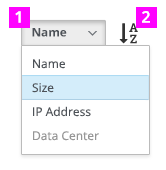
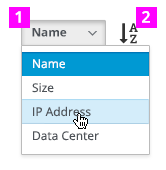
Updates for Sort
- Change all “Simple Sort” to just “Sort”.
- Modified the image of expanded sort to show a selected state, too.
- Made some minor updates to the way of expression.

diff --git a/pattern-library/forms-and-controls/sort/design/design.md b/pattern-library/forms-and-controls/sort/design/design.md
@@ -2,6 +2,6 @@
 
 ![Image highlighting attribute selector](img/sort_expand.png)
 
-  1. **Sort Selector:** Contains a list of the possible attributes by which to sort. Objects can be sorted by any attribute that they possess, not just those that are delayed on the page. (e.g. attributes in hidden columns, or those that are not displayed in a tile)
+  1. **Sort Selector:** Contains a list of the possible attributes by which to sort. Objects may sorted by any attribute, including properties that are not displayed in the current view. (e.g. attributes in hidden columns, or those that are not displayed in a tile)
 
   1. **Sort Order Toggle:** Toggles between ascending and descending order for the current sort. The icon on this button changes according to the data type of the current sort (use fa-sort-alpha-descending ![Image of sort](img/fa-sort-alpha-desc.png) and fa-sort-alpha-ascending ![Image of sort](img/fa-sort-alpha-asc.png) for strings, and fa-sort-numeric-descending ![Image of sort](img/fa-sort-numeric-desc.png) and fa-sort-numeric-ascending ![Image of sort](img/fa-sort-numeric-asc.png) for integers). Defaults to ascending order.

diff --git a/pattern-library/forms-and-controls/sort/design/overview.md b/pattern-library/forms-and-controls/sort/design/overview.md
@@ -1,8 +1,8 @@
 # Sort
 
-Simple Sort enables users to quickly sort a table or page full of objects by a single attribute. Sorting helps users make sense of data by ordering it in a logical fashion. Simple sort is often displayed as a component of the Data Toolbar.
+Sort enables users to quickly sort a table or page full of objects by a single attribute. Sorting helps users make sense of data by ordering it in a logical fashion. Sort is often displayed as a component of the Data Toolbar.
 
-When the current data is displayed as a table with sortable columns, the simple sort widget should still be included in the data toolbar for that view (changing the simple sort widget should change the appearance of the sortable table headers and vice versa)
+When the current data is displayed as a table with sortable columns, the sort widget should still be included in the data toolbar for that view (changing the sort widget should change the appearance of the sortable table headers and vice versa).
 
 ![Image of sort](img/sort.png)
 
